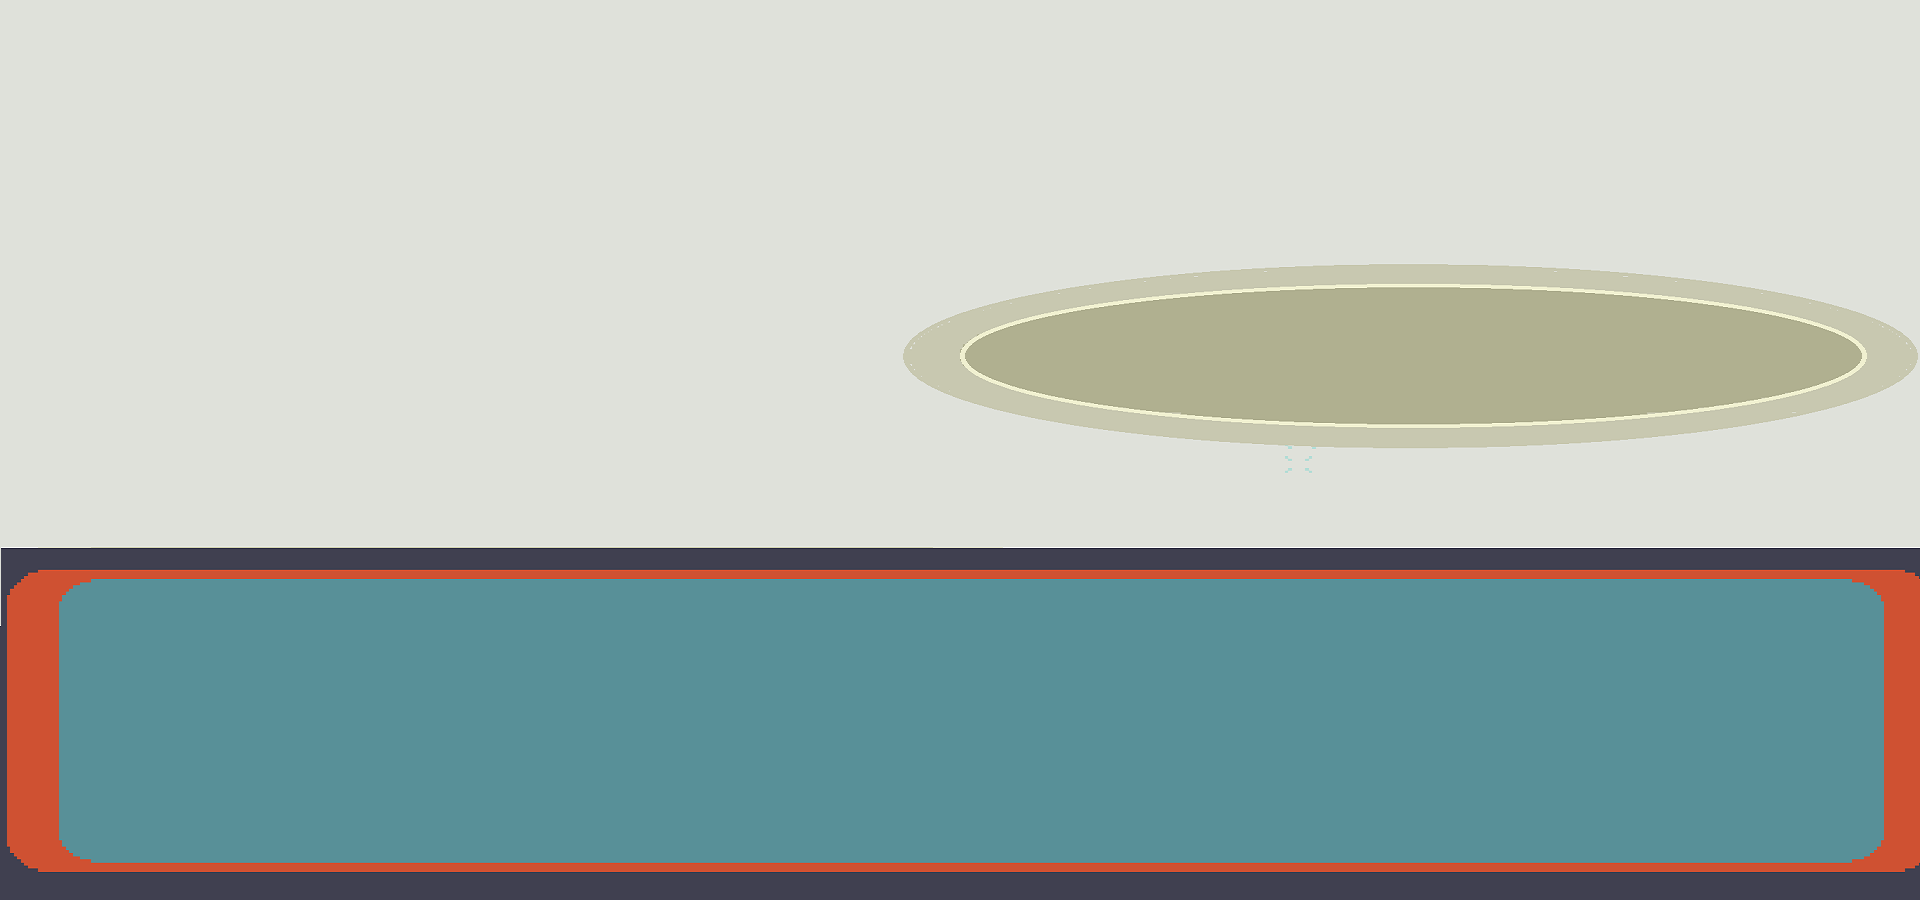
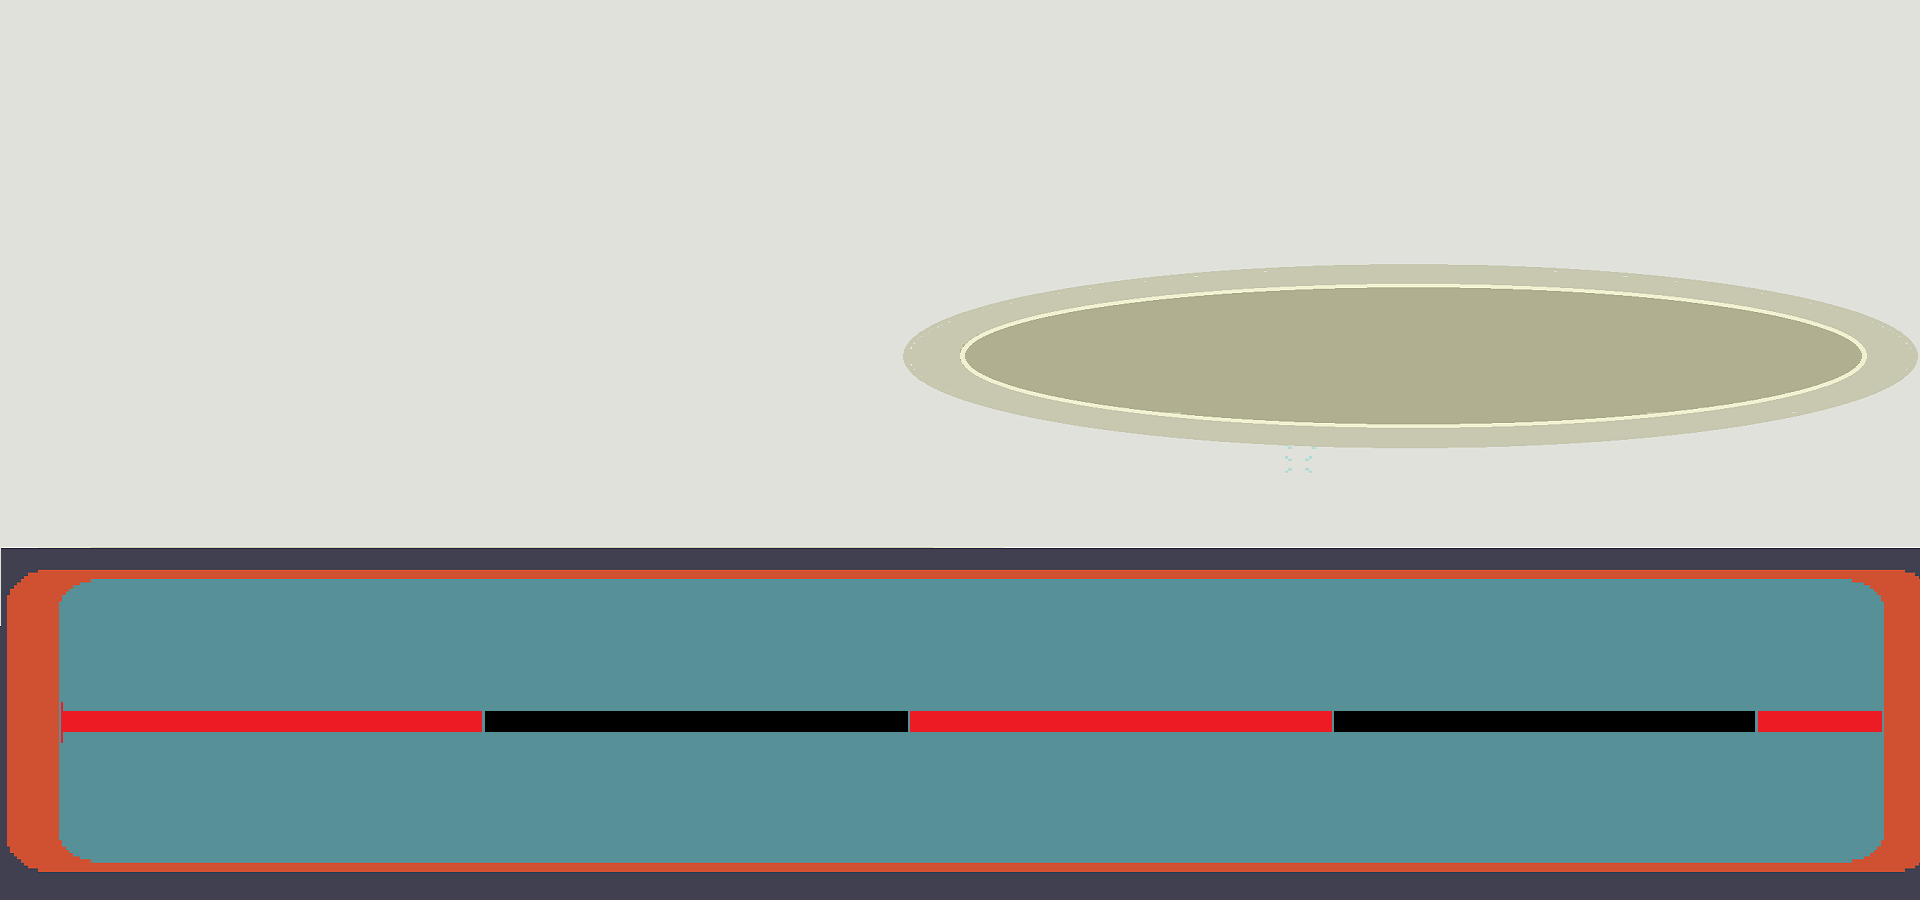
done me thinks

Changed region(s): [[0.0312, 0.7778, 1.0, 0.84]]

diff --git a/index.html b/index.html
@@ -1,73 +1,33 @@
 <!DOCTYPE html>
 <html>
 	<head>
-		<title>       </title>
+		<title>The Great Race</title>
 		<meta charset="utf-8">
 		<meta http-equiv="X-UA-Compatible" content="IE=edge">
 		<meta name="viewport" content="width=device-width, initial-scale=1">
 		<link rel="stylesheet" href="https://maxcdn.bootstrapcdn.com/bootstrap/3.3.7/css/bootstrap.min.css" integrity="sha384-BVYiiSIFeK1dGmJRAkycuHAHRg32OmUcww7on3RYdg4Va+PmSTsz/K68vbdEjh4u" crossorigin="anonymous">
-
+		<script src="https://ajax.googleapis.com/ajax/libs/jquery/1.12.4/jquery.min.js"></script>
 		<link href="styles.css" rel="stylesheet">
-	
-
 	</head>
 
 	<body>
-		<script src="https://ajax.googleapis.com/ajax/libs/jquery/1.12.4/jquery.min.js"></script>
-		
-		<div id="hidey">
-			<button type="start" class="startbutton racestart prestart"@click="startRace"><img src="images/racebutton.jpg" v-if="seen"></button>
-			<div class="chartrack">
-			<img src="images/charstart1.png" alt="charmander start position" class="charstart prestart" v-if="seen">
-			</div>
-			<div class="pikatrack">
-			<img src="images/pikastart1.png" alt="pikachu start position" class="pikastart prestart" v-if="seen">
-			</div>
-		</div>
-		
+	
+		<div id="raceCode">
+			
+			<img class="racestart" src="images/racebutton.jpg" :style="{opacity: racing ? 0 : 1}" @click="letsRace">
+            <img id="pika" src="images/pikastart1.png" :style="{opacity: racing ? 0 : 1}" class="pikastartTop">
+			<img id="pika" src="images/pikarun.gif"  class="pikastart" :style="pikaRace" :class="pikaWinTest">
+            <img id="charmander" src="images/charstart1.png" :style="{opacity: racing ? 0 : 1}" class="charstartTop">
+			<img id="charmander" src="images/charrun.gif" class="charstart" :style="charRace" :class="charWinTest">
+			<img class="winner" src="images/charwin1.gif" :style="{opacity: charwin ? 1 : 0}" @click="restart">
+			<img class="loser" src="images/pikalose.gif" :style="{opacity: charwin ? 1 : 0}" @click="restart">
+			<img class="winner" src="images/pikawin.gif" :style="{opacity: pikawin ? 1 : 0}" @click="restart">
+			<img class="loser" src="images/charlose.gif" :style="{opacity: pikawin ? 1 : 0}" @click="restart">
+			<img class="winTag" src="images/winner.png" :style="{opacity: place ? 1 : 0}" @click="restart">
+			<img class="loseTag" src="images/loser.png" :style="{opacity: place ? 1 : 0}" @click="restart">
+
+        </div>
 		<script src="https://unpkg.com/vue"></script>
-		
-		<script>
-			/*$(function(){
-				let vm = new Vue({
-					el: '#app',
-					data:{
-						racing: true,
-						winner: null,
-						charmander: 0,
-						pikachu: 0,
-						tick: 0,
-						interval: null
-					},
-					computed: {
-						winning(){
-						if (this.charmander == this.pikachu) return null
-								
-						return this.charmander > this.pikachu ? 'charmander' : 'pikachu'
-						},
-					}
-					
-					
-					
-					
-					
-				})
-			})*/
-			$(function(){	
-				var hidey = new Vue({
-					el: '#hidey',
-					
-
-					if (racing = true){
-						data: {
-							seen: false
-						}
-					}
-				})
-
-		})
-		</script>
-		
-		
+		<script src="vue.js"></script>
 	</body>
 </html>

diff --git a/vue.js b/vue.js
@@ -1,45 +1,94 @@
 $(function(){
-	let vm = new Vue({
-		el: '#app',
-		data:{
-			racing: true,
+   
+     let vm = new Vue({
+        el: '#raceCode',
+        data: {
+			racing: false,
 			winner: null,
+			pika: 0,
 			charmander: 0,
-			pikachu: 0,
-			tick: 0,
-			interval: null
-		},
-		computed: {
-			winning(){
-				if (this.charmander == this.pikachu) return null
-				
-				return this.charmander > this.pikachu ? 'charmander' 'pikachu'
-			}
-		}
-		
-		
-		
-		
-		
-	})
-	
-	var hidey = new Vue({
-		el: 'hidey',
-		
-		if (racing == false){
-			data: {
-				seen: true
-			}
-		}
-		else{
-			data: {
-				seen: false
-			}
-		}
-	})
-	
-	
-	
-	
-	
+			counter: 0,
+			interval: null,
+			pikawin: false,
+			charwin: false,
+			place: false,
+        },
+		 
+        methods: {
+            letsRace() {
+                this.racing = true
+                this.interval = setInterval(() => {
+                    this.moveRacer()
+                }, 100)
+            },
+
+            moveRacer() {
+                this.counter++
+                this.pika += (Math.random() >= Math.random()) ? 1 : 0
+                this.charmander += (Math.random() >= Math.random()) ? 1 : 0
+                this.whoWon()
+            },
+
+            whoWon() {
+                if (this.pika == this.charmander) return
+                if (this.pika >= 90) {
+                    this.Winning('Pikachu')
+					this.pikawin = true
+					this.place = true
+                }
+                if (this.charmander >= 90) {
+                    this.Winning('Charmander')
+					this.charwin = true
+					this.place = true
+                }
+            },
+
+            Winning(player) {
+                clearInterval(this.interval)
+                this.interval = null
+                /* this.racing = false */
+                this.winner = player
+            },
+
+            restart() {
+                this.racing = false
+                this.winner = null
+                this.pika = 0
+                this.charmander = 0
+                this.counter = 0
+				this.pikawin = false
+				this.charwin = false
+				this.place = false
+            }
+        },
+
+        computed: {
+            pikaRace() {
+                return {
+                    left: `${this.pika}vw`
+                }
+            },
+
+            pikaWinTest() {
+                if (!this.winner) return
+					return this.winner == 'pikachU'
+            },
+
+            charRace() {
+                return {
+                    left: `${this.charmander}vw`
+                }
+            },
+
+            charWinTest() {
+                if (!this.winner) return
+					return this.winner == 'charmandeR'
+            },
+
+            winner() {
+                if (this.pika == this.charmander) return null
+                    return this.pika > this.charmander ? 'Pikachu':'Charmander'
+            }
+        },
+     })
 })

diff --git a/styles.css b/styles.css
@@ -5,41 +5,64 @@ body{
 	background-size:cover;
 	height: 100vh;
 	width: 100vw;
-
-	
-	
-	
-	
 }
+
 .racestart{
 	position:fixed;
 	left:20px;
     top:30px;
 	opacity: 
-	
-	
 }
+
 .charstart{
-	position:fixed;
-	left:5px;
+	position:absolute;
     bottom:14em;
 	height: 12%;
-   
-	
-	
-}
-.chartrack{
-
 }
 
+.charstartTop{
+	position:absolute;
+	z-index: 1;
+    bottom:14em;
+	height: 12%;
+}
 
 .pikastart{
-	position:fixed;
-	left:5px;
+	position:absolute;
+	
     bottom:4em;
 	height: 12%;
 }
-.pikatrack{
 
+.pikastartTop{
+	position:absolute;
+	z-index: 1;
+    bottom:4em;
+	height: 12%;
 }
 
+.winner{
+	position:fixed;
+	left:900px;
+    top:140px;
+}
+
+.loser{
+	position:fixed;
+	left:600px;
+    top:250px;
+}
+
+.winTag{
+	position:fixed;
+	left:880px;
+    top:350px;
+	z-index: 1;
+}
+
+.loseTag{
+	position:fixed;
+	left:615px;
+    top:400px;
+	z-index: 1;
+}
